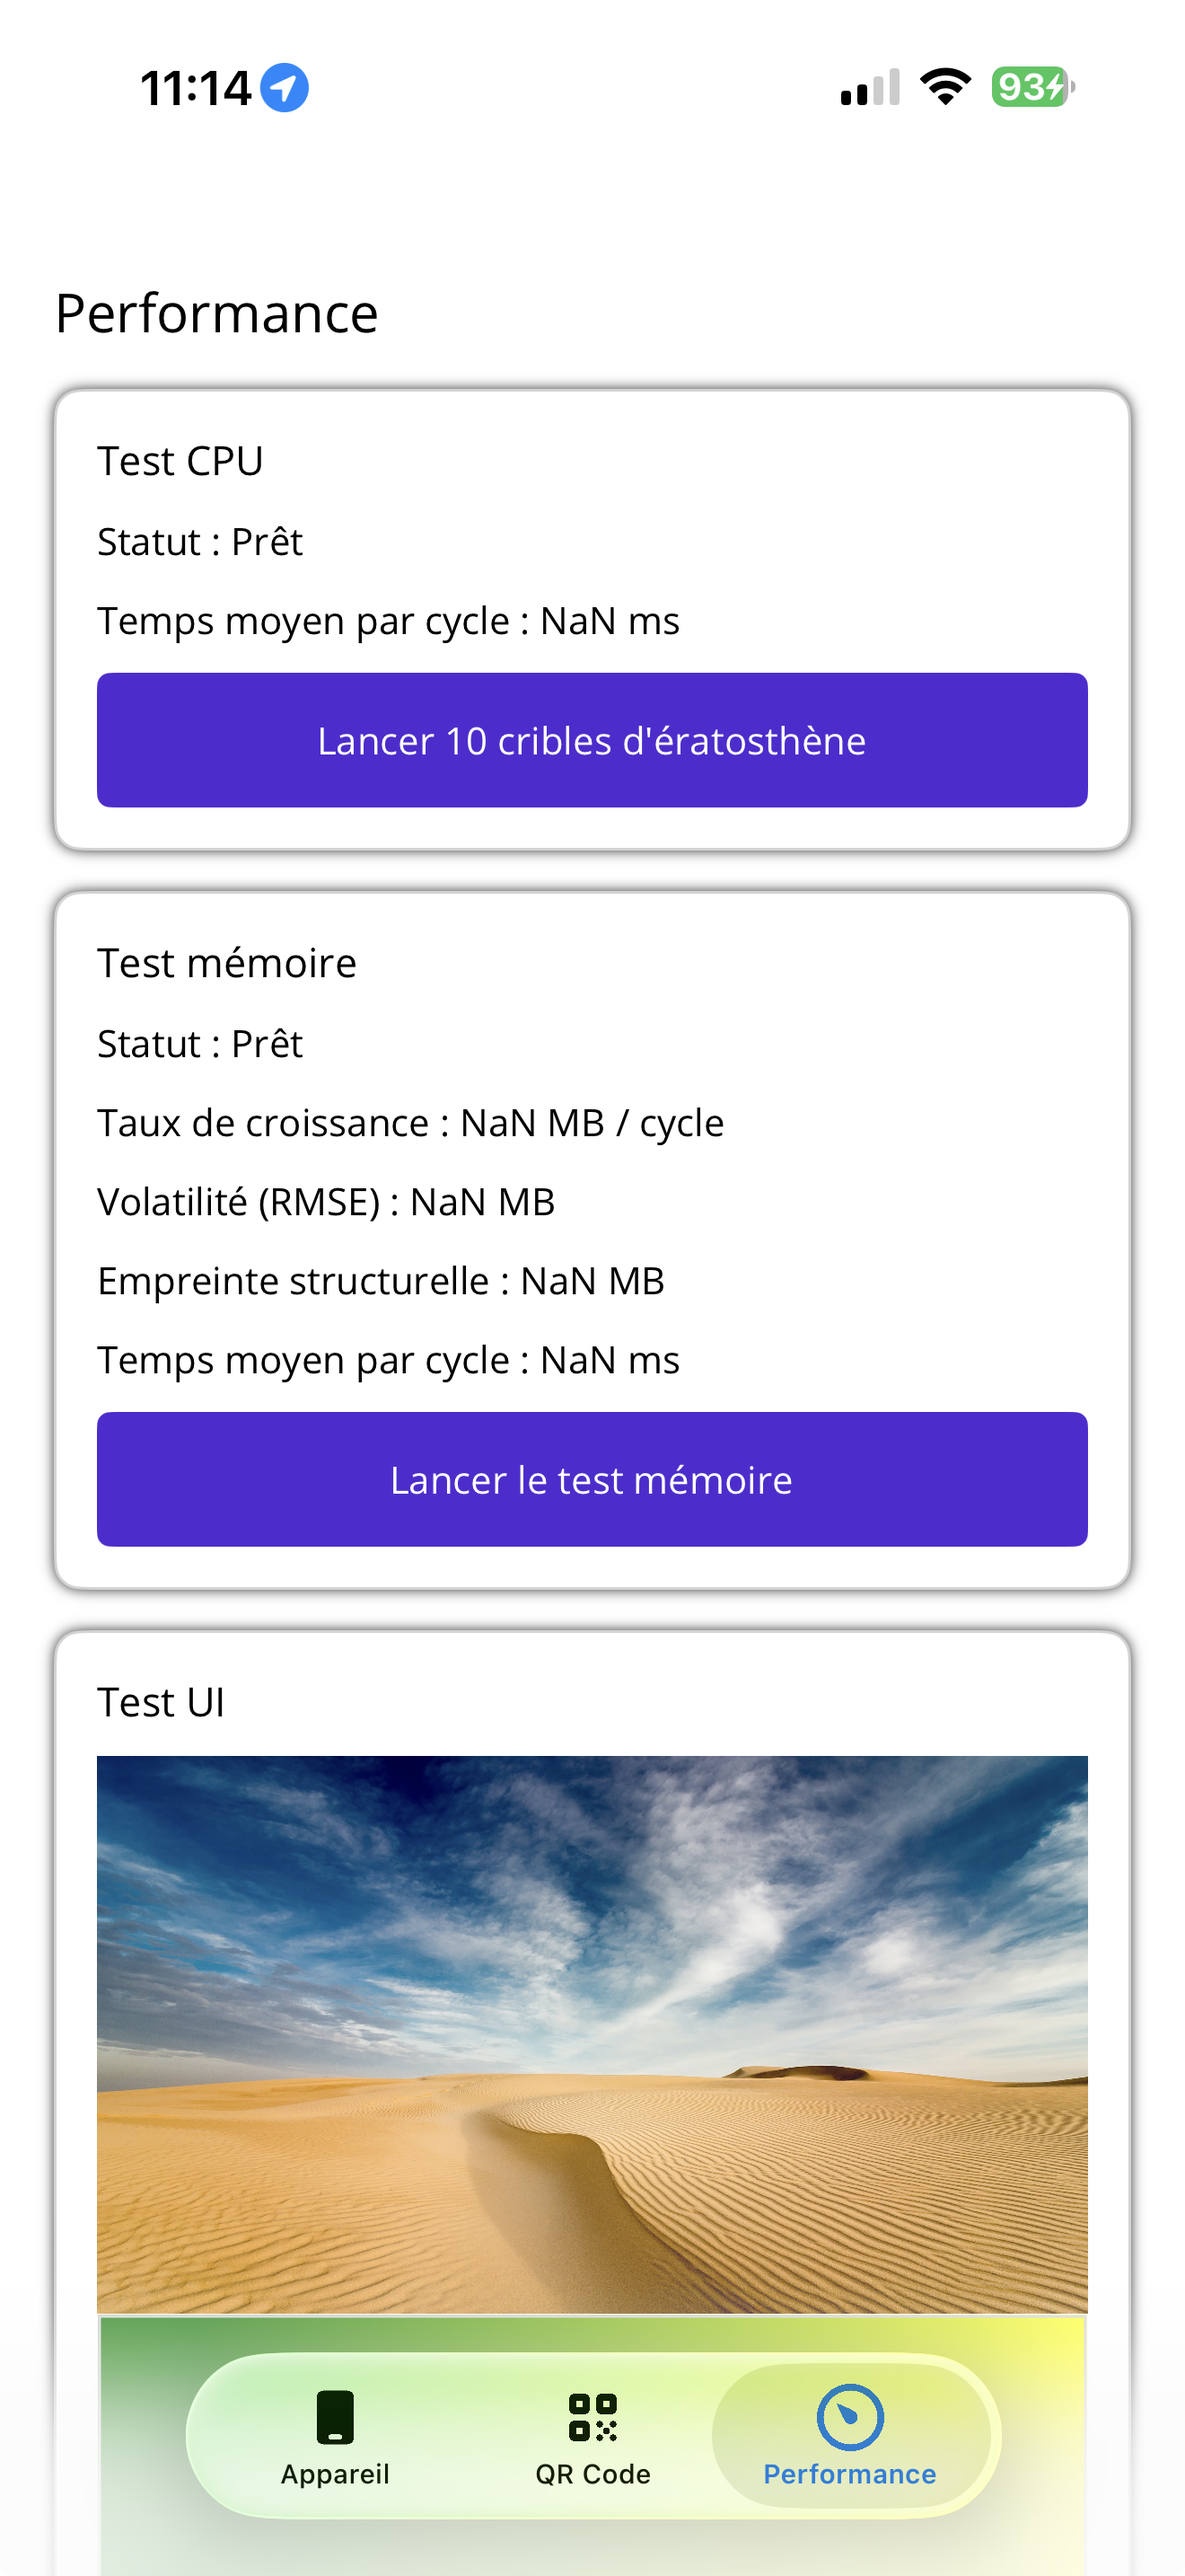
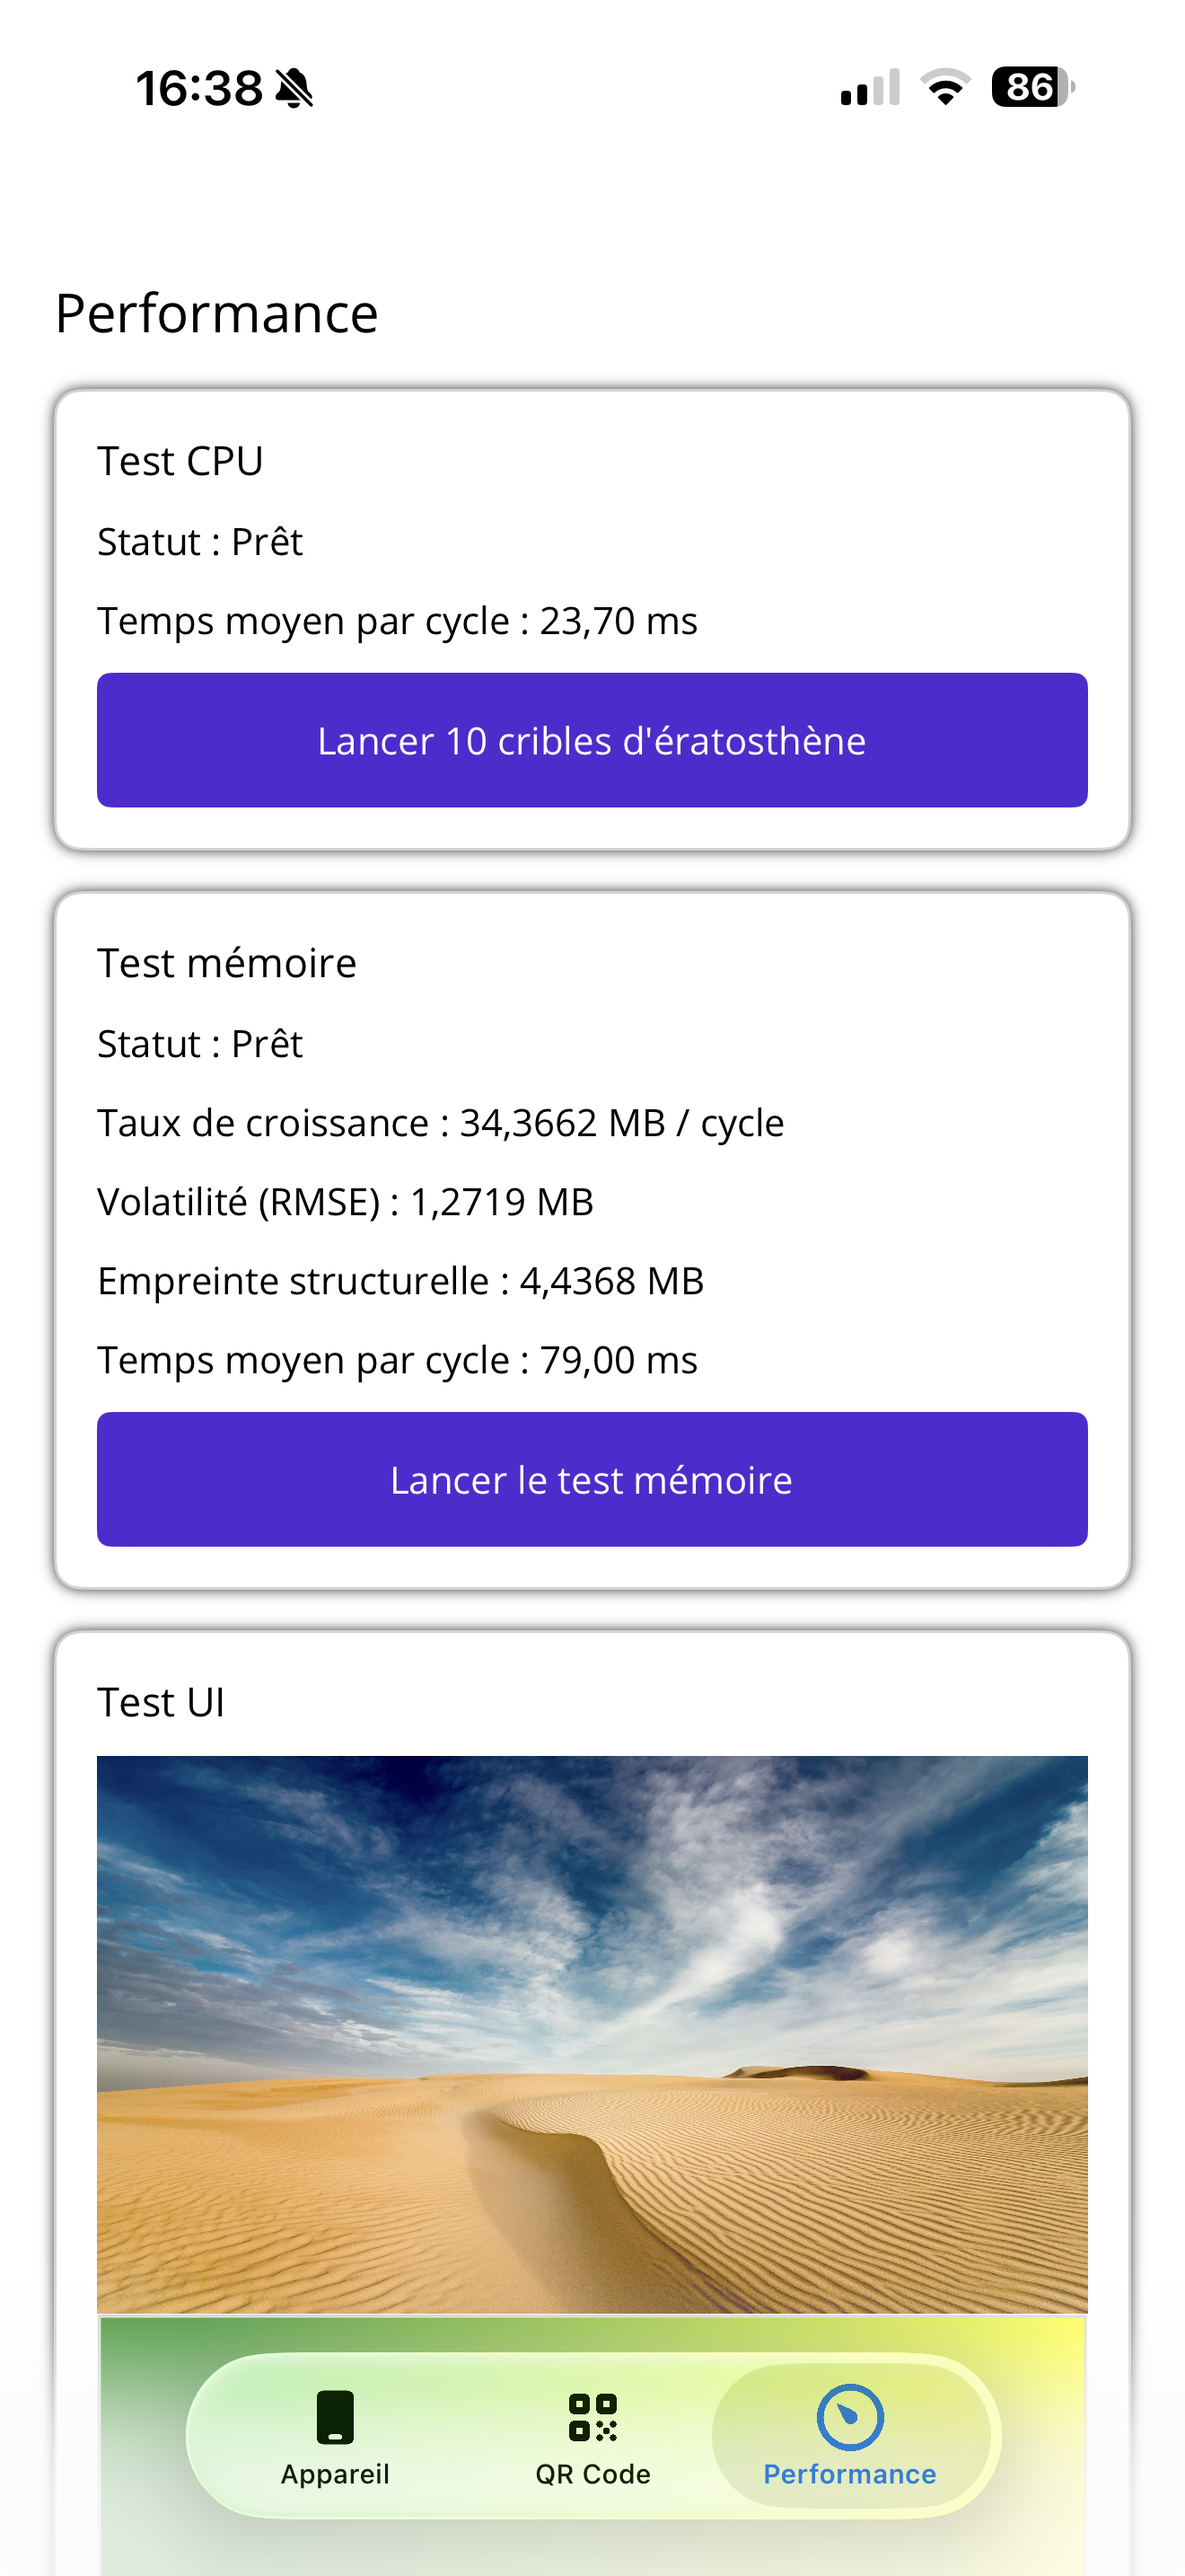
Ajout du recapitulatif des resultats

diff --git a/README.md b/README.md
@@ -1,1 +1,29 @@
 # comparatif-developpement-mobile
+
+## Résultats Android
+
+[moyenne - min - max]
+
+|   | .Net Maui | Kotlin Multiplatform | React native |
+|---|---|---|---|
+| **Test CPU**  |   |   |   |
+| temps moyen / cycle (ms)  | 181,7 - 176,2 - 187,1 | 40,32 - 36,9 - 45,9 | 4947,07 - 4908,15 - 4967,16 |
+| **Test mémoire**  |   |   |   |
+| Taux de croissance (MB / cycle)  | 34,8396 - 34,8353 - 34,8428 | 5,3305 - 0,9553 - 8,2530 | 36,2731 - 36,2716 - 36,2759 |
+| RMSE (MB)  | 1,6608 - 1,6390 - 1,6935 | 15,4184 - 9,2103 - 20,6959 | 1,0331 - 1,0307 - 1,0339 |
+| Empreinte structurelle (MB)  | 8,4469 - 8,3069 - 8,5462 | 49,1784 - 32,2186 - 60,8406 | 6,5559 - 6,5328 - 6,6069 |
+| temps moyen / cycle (ms)  | 438,20 - 420,00 - 458,40 | 25,76 - 24,30 - 27,60 | 1276,21 - 1269,75 - 1290,79 |
+
+## Résultats iOS
+
+[moyenne - min - max]
+
+|   | .Net Maui | Kotlin Multiplatform | React native |
+|---|---|---|---|
+| **Test CPU**  |   |   |   |
+| temps moyen / cycle (ms)  | 23,78 - 23,30 - 24,20 | 9,42 - 9,00 - 10,00 | 7599,90 - 7596,53 - 7604,88 |
+| **Test mémoire**  |   |   |   |
+| Taux de croissance (MB / cycle)  | 34,3645 - 34,3632 - 34,3662 | 49,0481 - 48,9921 - 49,1908 | 36,0340 - 35,9538 - 36,1547 |
+| RMSE (MB)  | 1,2738 - 1,2708 - 1,2770 | 6,2315 - 4,3693 - 6,8521 | 0,4989 - 0,2446 - 0,8794 |
+| Empreinte structurelle (MB)  | 4,4564 - 4,4368 - 4,4691 | 267,2314 - 265,3281 - 274,5448 | 7,9446 - 7,1958 - 8,8399 |
+| temps moyen / cycle (ms)  | 76,92 - 75,00 - 79,00 | 82,58 - 76,90 - 93,80 | 314,37 - 312,56 - 316,01 |
